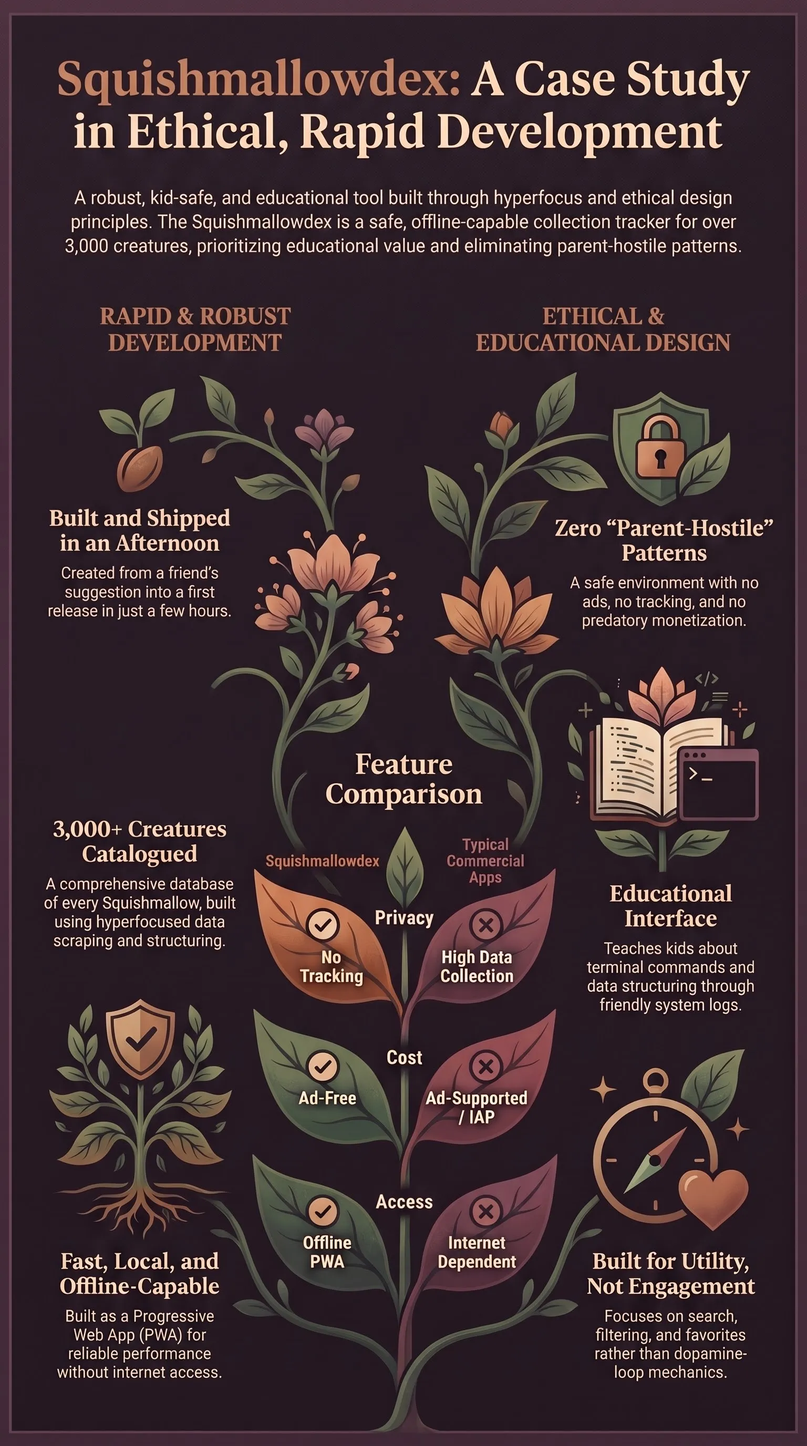
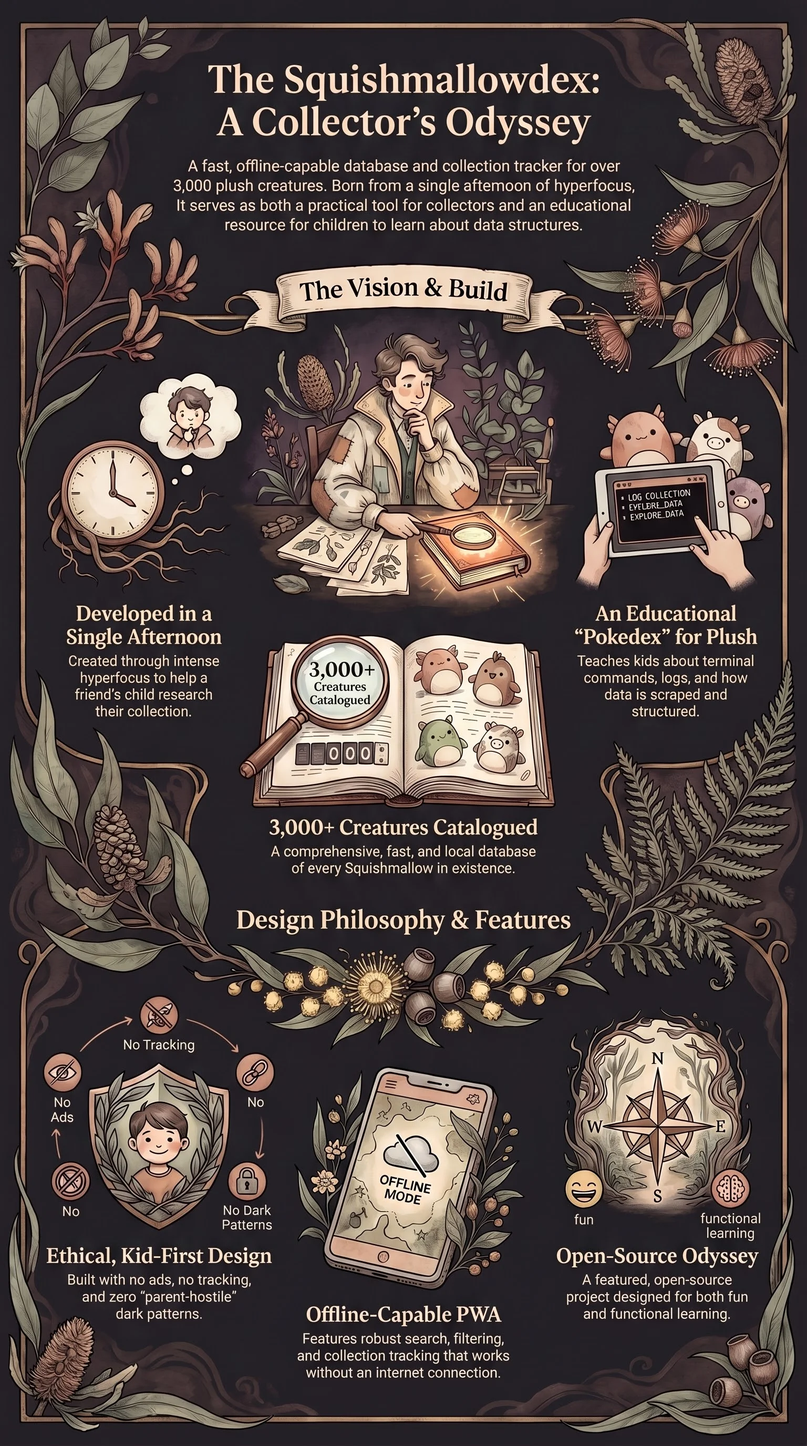
content(nlm): generate Squishmallowdex infographic, update hero image
Closes #311

diff --git a/src/content/projects/squishmallowdex.md b/src/content/projects/squishmallowdex.md
@@ -6,7 +6,7 @@ url: 'https://squishmallowdex.com'
 repo: 'https://github.com/adrianwedd/squishmallowdex'
 status: 'complete'
 featured: true
-heroImage: '/images/projects/squishmallowdex-hero.png'
+heroImage: '/notebook-assets/squishmallowdex/infographic.webp'
 date: 2024-12-01
 audioUrl: 'https://cdn.adrianwedd.com/notebook-assets/squishmallowdex/audio.mp3'
 videoUrl: 'https://cdn.adrianwedd.com/notebook-assets/squishmallowdex/video.mp4'
@@ -19,3 +19,5 @@ It's designed to be educational—running terminal commands, showing kid-friendl
 Another few hours of work made it actually robust. Offline PWA. Search, filter, favorites, collection tracking. Over 3,000 plush creatures catalogued.
 
 Take a closer look if you're building for kids, or just want to see what hyperfocus and a good excuse can produce in an afternoon.
+
+![Squishmallowdex — search, filter, and track your collection](/images/projects/squishmallowdex-hero.png)
